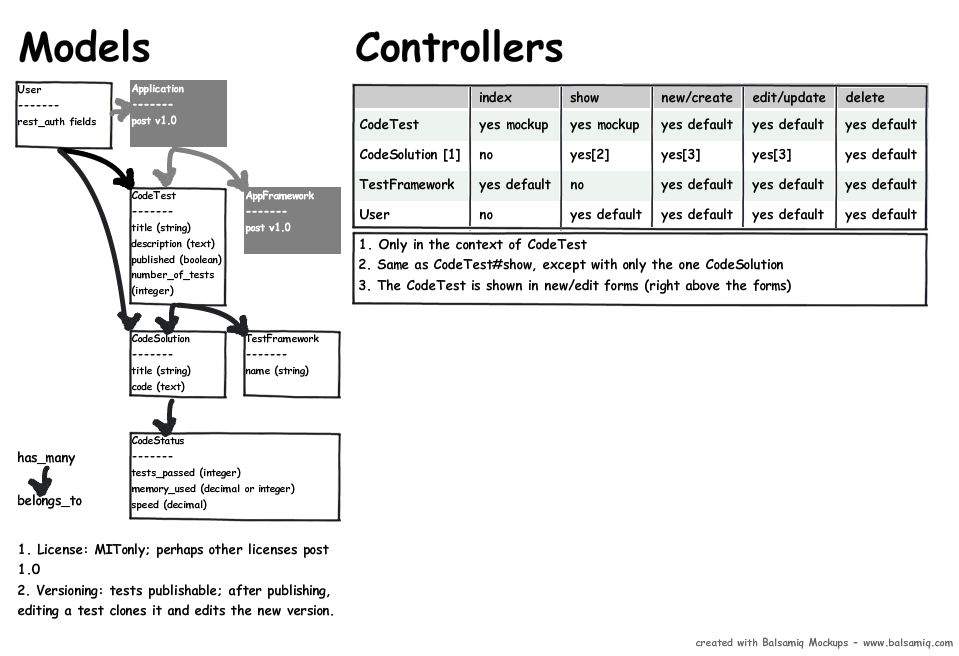
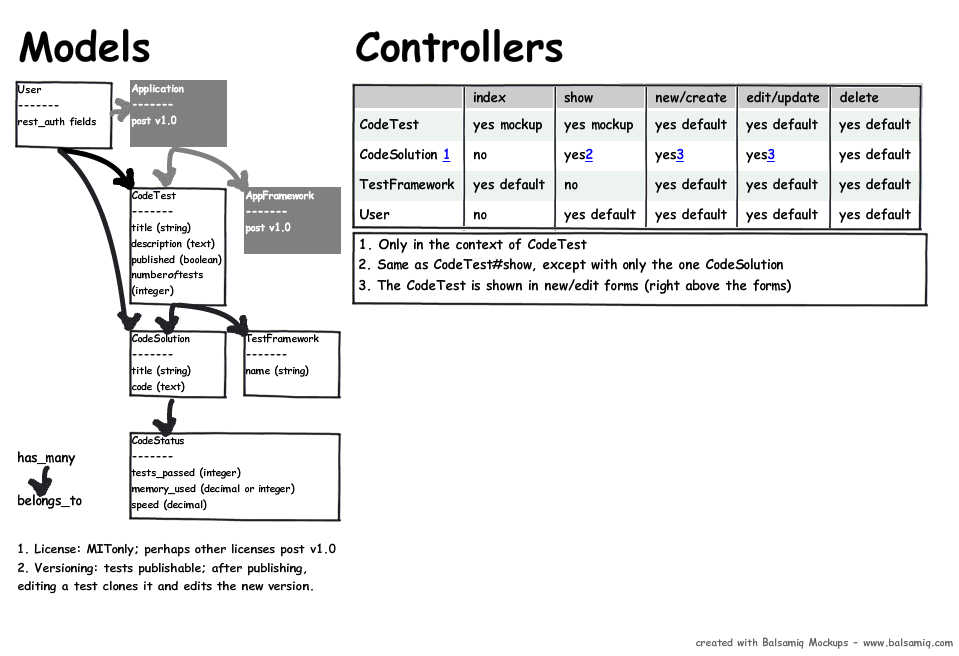
mockups, rapid changes

Changed region(s): [[0.4536, 0.122, 0.9677, 0.3659], [0.0, 0.8232, 0.3629, 0.9451], [0.1814, 0.3963, 0.2117, 0.4268]]

diff --git a/app/models/code_solution.rb b/app/models/code_solution.rb
@@ -9,6 +9,7 @@ class CodeSolution < ActiveRecord::Base
   end
 
   belongs_to :code_test
+  belongs_to :user
   has_many   :code_statuses, :dependent => :destroy
 
   # --- Permissions --- #
